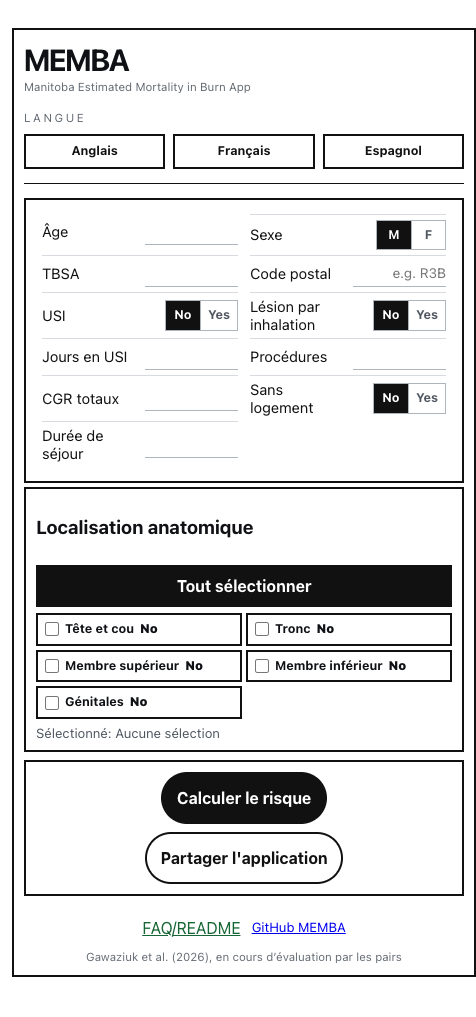
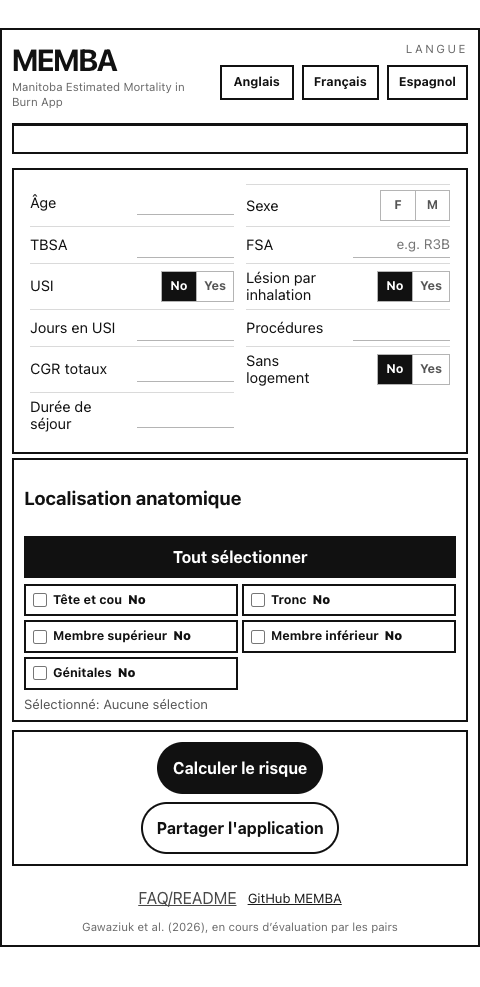
Align MEMBA examples with submission figures

Changed region(s): [[0.0, 0.0304, 1.0, 0.9726]]

diff --git a/src/App.tsx b/src/App.tsx
@@ -68,7 +68,7 @@ type LocaleStrings = {
   locationLabels: Record<string, string>
 }
 
-const githubAppUrl = 'https://github.com/jpg123/burn-mortality-MEMBER'
+const githubAppUrl = 'https://github.com/jpg123/MEMBA'
 const githubReadmeUrl = `${githubAppUrl}/blob/main/README.md`
 
 function deriveRurality(fsa: string) {
@@ -172,7 +172,7 @@ const localeStrings: Record<Language, LocaleStrings> = {
       Age: 'Age',
       Sex: 'Sex',
       TBSA: 'TBSA',
-      FSA: 'First 3 MB postal',
+      FSA: 'FSA (First three of postal code)',
       ICU: 'ICU',
       'Days ICU': 'Days ICU',
       Unhoused: 'Unhoused',
@@ -188,7 +188,7 @@ const localeStrings: Record<Language, LocaleStrings> = {
       'Lower extremity': 'Lower extremity',
       Genitalia: 'Genitalia',
     },
-    locationLabels: { FSA: 'First 3 MB postal', Inhalation: 'Inhalation', Rurality: 'Rurality', Mechanism: 'Mechanism', 'Anatomical location': 'Anatomical location' },
+    locationLabels: { FSA: 'FSA (First three of postal code)', Inhalation: 'Inhalation', Rurality: 'Rurality', Mechanism: 'Mechanism', 'Anatomical location': 'Anatomical location' },
   },
   fr: {
     appTitle: 'Application de mortalité des brûlures',
@@ -249,7 +249,7 @@ const localeStrings: Record<Language, LocaleStrings> = {
       Age: 'Âge',
       Sex: 'Sexe',
       TBSA: 'TBSA',
-      FSA: 'Code postal',
+      FSA: 'FSA (3 du code postal)',
       ICU: 'USI',
       'Days ICU': 'Jours en USI',
       Unhoused: 'Sans logement',
@@ -265,7 +265,7 @@ const localeStrings: Record<Language, LocaleStrings> = {
       'Lower extremity': 'Membre inférieur',
       Genitalia: 'Génitales',
     },
-    locationLabels: { FSA: 'Code postal', Inhalation: 'Inhalation', Rurality: 'Ruralité', Mechanism: 'Mécanisme', 'Anatomical location': 'Localisation anatomique' },
+    locationLabels: { FSA: 'FSA (3 du code postal)', Inhalation: 'Inhalation', Rurality: 'Ruralité', Mechanism: 'Mécanisme', 'Anatomical location': 'Localisation anatomique' },
   },
   es: {
     appTitle: 'Aplicación de mortalidad por quemaduras',
@@ -326,7 +326,7 @@ const localeStrings: Record<Language, LocaleStrings> = {
       Age: 'Edad',
       Sex: 'Sexo',
       TBSA: 'TBSA',
-      FSA: 'FSA',
+      FSA: 'FSA (3 del código postal)',
       ICU: 'UCI',
       'Days ICU': 'Días en UCI',
       Unhoused: 'Sin vivienda',
@@ -349,7 +349,9 @@ const localeStrings: Record<Language, LocaleStrings> = {
 const featureRows: FeatureItem[] = [
   { label: 'Age', valueLow: '34', valueHigh: '67', scale: 'Years' },
   { label: 'Sex', valueLow: 'Female', valueHigh: 'Male', scale: 'Binary' },
-  { label: 'TBSA', valueLow: '8%', valueHigh: '50%', scale: 'Per 10 percentage points' },
+  // Rule-of-Nines-compatible capture examples: 9% for one upper extremity
+  // and 45% for head/neck (9%) + torso (18%) + one lower extremity (18%).
+  { label: 'TBSA', valueLow: '9', valueHigh: '45', scale: 'Percent burned' },
   // FSA is used only to derive Rurality and is not an independent model feature.
   { label: 'FSA', valueLow: 'R3B', valueHigh: 'R0A', scale: '3 characters' },
   { label: 'ICU', valueLow: 'No', valueHigh: 'Yes' },
@@ -374,7 +376,7 @@ const stateMeta = {
     ringSoft: 'rgba(22, 101, 52, 0.14)',
     summary: [
       ['Age', '34 years'],
-      ['TBSA', '8%'],
+      ['TBSA', '9%'],
       ['Sex', 'Female'],
       ['Rural', 'No'],
       ['Inhalation', 'No'],
@@ -394,7 +396,7 @@ const stateMeta = {
     ringSoft: 'rgba(251, 113, 133, 0.14)',
     summary: [
       ['Age', '67 years'],
-      ['TBSA', '48%'],
+      ['TBSA', '45%'],
       ['Sex', 'Male'],
       ['Rural', 'Yes'],
       ['Inhalation', 'Yes'],
@@ -418,14 +420,16 @@ function App() {
   ))
   const [shareStatus, setShareStatus] = useState<string | null>(null)
   const [hasCalculated, setHasCalculated] = useState(() => query.has('state'))
-  const [selectedLocations, setSelectedLocations] = useState<LocationOption[]>(() => {
-    const requested = query.get('locations')?.split(',') ?? []
-    const valid = requested.filter((item): item is LocationOption => locationOptions.includes(item as LocationOption))
-    return valid.length ? valid : query.has('state') ? ['Torso'] : []
-  })
   const state: RiskState = query.get('state') === 'high'
     ? 'high'
     : 'low'
+  const [selectedLocations, setSelectedLocations] = useState<LocationOption[]>(() => {
+    const requested = query.get('locations')?.split(',') ?? []
+    const valid = requested.filter((item): item is LocationOption => locationOptions.includes(item as LocationOption))
+    if (valid.length) return valid
+    if (!query.has('state')) return []
+    return state === 'low' ? ['Upper extremity'] : ['Head and neck', 'Torso', 'Lower extremity']
+  })
   const [featureValues, setFeatureValues] = useState<Record<string, string>>(() =>
     Object.fromEntries(featureRows.map((item) => [
       item.label,
@@ -455,12 +459,13 @@ function App() {
       unusedFeatures: featureRows.map((item) => item.label).filter((label) => label !== 'TBSA' && !locationOptions.includes(label as LocationOption)),
       summary: [
         ['Age', featureValues.Age],
-        ['TBSA', featureValues.TBSA],
+        ['TBSA', featureValues.TBSA ? `${featureValues.TBSA}%` : ''],
         ['Sex', featureValues.Sex],
         ['FSA', featureValues.FSA],
         ['Rurality', featureValues.FSA ? deriveRurality(featureValues.FSA) : ''],
         ['Inhalation', featureValues['Inhalation injury']],
         ['ICU', featureValues.ICU],
+        ['Anatomical location', selectedLocations.length ? selectedLocations.join(', ') : 'None selected'],
       ].filter(([, value]) => value),
     }
   }, [featureValues, hasCalculated, selectedLocations])

diff --git a/src/App.css b/src/App.css
@@ -398,7 +398,7 @@
 .feature-list {
   display: grid;
   grid-template-columns: repeat(2, minmax(0, 1fr));
-  gap: 0 12px;
+  gap: 0 16px;
 }
 
 .feature-row {

diff --git a/README.md b/README.md
@@ -14,6 +14,36 @@ It is for research, education and discussion. It does not replace clinical judgm
 4. Select **Calculate risk**.
 5. Review the estimated mortality risk and the information entered.
 
+The demonstration figures use Rule-of-Nines-compatible examples. The low-risk example uses 9% TBSA with one upper extremity selected. The high-risk example uses 45% TBSA from head and neck (9%), torso (18%) and one lower extremity (18%). The calculated-risk summary displays both TBSA and the selected anatomical locations.
+
+## Submission examples
+
+The following examples are the same image files used for the journal submission figures.
+
+### Figure 3A MEMBA English at-rest screen
+
+The English MEMBA application is shown before a risk calculation, with the input fields and disclosure visible.
+
+![Figure 3A MEMBA English at-rest screen](at-rest.png)
+
+### Figure 3B MEMBA French at-rest screen
+
+The French MEMBA application is shown before a risk calculation, with the input fields and disclosure visible.
+
+![Figure 3B MEMBA French at-rest screen](at-rest-fr.png)
+
+### Figure 3C MEMBA low-risk example
+
+The MEMBA application displays a low-risk example after patient inputs are entered. The example uses 9% TBSA with the upper extremity selected, and the summary panel displays TBSA and the selected anatomical location.
+
+![Figure 3C MEMBA low-risk example](low-example.png)
+
+### Figure 3D MEMBA high-risk example
+
+The MEMBA application displays a high-risk example after patient inputs are entered. The example uses 45% TBSA from head and neck, torso and lower extremity selections, and the summary panel displays TBSA and the selected anatomical locations.
+
+![Figure 3D MEMBA high-risk example](high-example.png)
+
 The app can be used with information available near admission. Information such as ICU use, ICU days, procedures, transfusion and length of stay may become available later during hospitalization and can support reassessment.
 
 ## Information used
@@ -59,6 +89,6 @@ External validation at another burn centre remains outstanding. The displayed es
 
 ## Project information
 
-The application, fitted model and project documentation are maintained in the [MEMBER GitHub repository](https://github.com/jpg123/burn-mortality-MEMBER).
+The application, fitted model and project documentation are maintained in the [MEMBA GitHub repository](https://github.com/jpg123/MEMBA).
 
 The in-app **FAQ/README** provides the same user-facing information in a popup. Its content is currently maintained in English and will be translated after the English version is finalized.

diff --git a/DEVELOPMENT.md b/DEVELOPMENT.md
@@ -45,4 +45,4 @@ Etiology is intentionally excluded from the model, app, tables and figures.
 
 The repository is private:
 
-https://github.com/jpg123/burn-mortality-MEMBER
+https://github.com/jpg123/MEMBA
